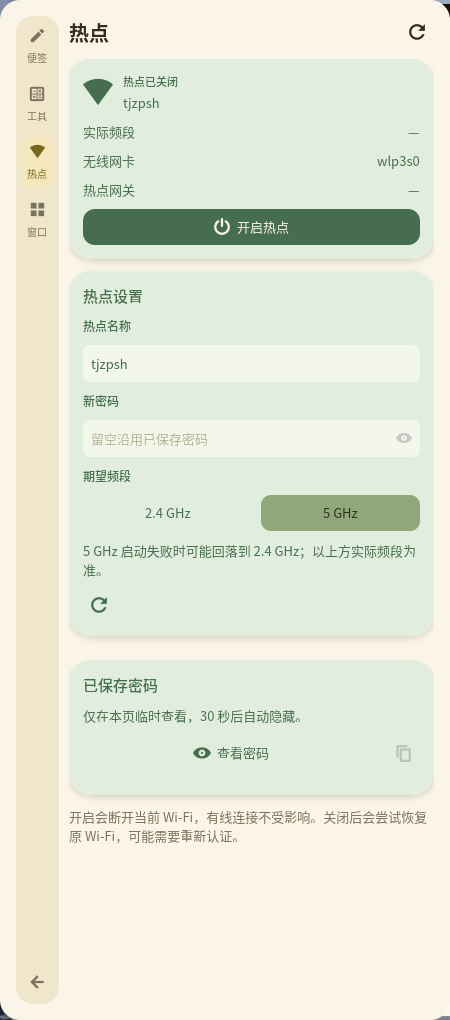
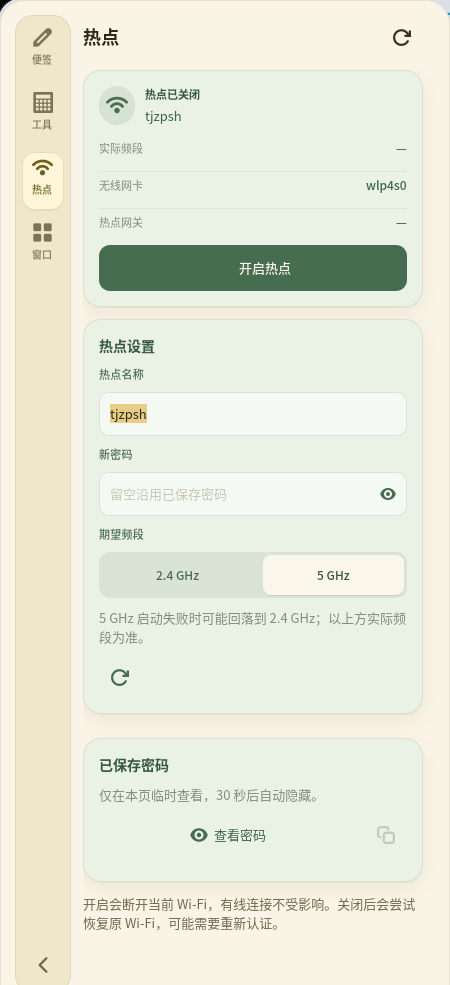
feat(tide-sidebar): 2.3.0 收尾批次——省内存/冷启动、可达性与文档收口
内存与启动（实测见 docs/performance-observation.json）：
- 页面按需构建：冷启探针 395→382 ms（5 次中位数），只开便签时省掉另外三页控件树；
  四页都访问后 RSS 108–114 MiB，只开便签约 98 MiB。
- 图标主题在本进程固定 Adwaita：所有图标本来就是 *-symbolic，Papirus 缓存不再加载；
  同状态（按需构建 + 便签页）117.7→100.9 MiB，−16.4 MiB。
- 闲置退出补组合场景：reload 待重拉时不算闲置、hide→show 重置倒计时、时钟跳变仍退出、
  0 表示常驻；service 层用假 runStream 覆盖配置传递、重拉与失败通知去重。
- 前端启动失败改为去重桌面通知（面板起不来时面板内 toast 看不到）。

视觉与可达性：
- 便签弹层两个空态改为图标+文案；热点初始加载显示“正在读取热点状态…”；
- 编辑器加 :focus-within 细描边焦点环；muted #8B8168→#71674F
  （纸面 4.81:1、便签纸 4.95:1，11px 正文达到 WCAG AA）；
- toast 对比度实测 13.2 / 7.5 / 5.3:1（默认/错误/成功）；
- 键盘实测 Ctrl+1–4 切页、Esc 收起（layer 消失）；1.25 缩放实拍无溢出，已恢复 1.0。

文档与发布：
- 版本 2.3.0；previews 六张与 design/reference-flat-proof.png 全部换成当前实机图，
  旧静态 SVG 样张退役（files.tsv 414 行，schema 锁同步）；
- README / reference-redesign / project-review / sdk-notes 更新版本、内存与闲置退出口径。

安装器：
- 删除 07 两条不可达的软链分支：an_resolve_target 已用 realpath 解析到真实文件，
  链接保留、写入落在目标（DETAILS.md 的既有约定），备份 helper 一并删除；
- test-07 软链段改为直接验证解析语义（写穿不替换链接、白名单外拒绝），
  test-manifest-schema 行数锁 415→414。

门禁：插件 run_all.py 0 errors/0 warnings；tools/selfcheck.sh 全过；
tests/run-all.sh ALL TESTS PASSED。

diff --git a/payload/home/noctalia-plugins/tide-sidebar/native/main.js b/payload/home/noctalia-plugins/tide-sidebar/native/main.js
@@ -37,6 +37,8 @@ let state = {
 let sequence = 0, visible = false, currentPage = 'notes', lastControl = -1;
 let window, rootRevealer, stack, toastRevealer, toastLabel, toastTimer = 0;
 let views = {}, navigation = {}, fileMonitor = null, pendingRead = 0, closeSource = 0, heartbeat = 0;
+let viewFactory = null;
+let ensureView = () => null;
 let shellBox = null, appliedWidth = 0;
 let exiting = false, startupFailed = false;
 const dirtyFiles = new Set();
@@ -117,13 +119,15 @@ function applyConfig() {
 function normalizePage(page) { return pageNames.includes(page) ? page : (pageAliases[page] || 'notes'); }
 function updatePage(force = false, changed = []) {
     const needed = {notes: ['notes'], tools: ['timer', 'calc', 'stopwatch'], hotspot: ['system'], windows: ['system']};
-    if (visible && (force || changed.some(name => needed[currentPage].includes(name)))) views[currentPage].update(state);
+    const view = views[currentPage];
+    if (visible && view && (force || changed.some(name => needed[currentPage].includes(name)))) view.update(state);
 }
 function selectPage(name, save = true) {
     name = normalizePage(name);
     if (name === currentPage && stack?.get_visible_child_name() === name) { updatePage(true); return; }
     if (visible) views[currentPage]?.onHide?.();
     currentPage = name;
+    ensureView(name);
     stack.set_visible_child_name(name);
     for (const [page, button] of Object.entries(navigation)) {
         if (page === name) button.add_css_class('selected'); else button.remove_css_class('selected');
@@ -256,6 +260,10 @@ app.connect('startup', () => {
     provider.load_from_path(GLib.build_filenamev([pluginDir, 'style.css']));
     if (cssErrors.length) throw new Error('Invalid sidebar stylesheet: ' + cssErrors.join('; '));
     Gtk.StyleContext.add_provider_for_display(Gdk.Display.get_default(), provider, Gtk.STYLE_PROVIDER_PRIORITY_USER + 1);
+    // All icons in this panel are *-symbolic and resolve from GTK's built-in
+    // Adwaita theme anyway; naming it explicitly keeps the session's Papirus
+    // icon caches (2 x ~3 MiB) out of this process. No visual change.
+    Gtk.Settings.get_default().set_property('gtk-icon-theme-name', 'Adwaita');
     app.hold();
     window = new Gtk.ApplicationWindow({application: app, title: '侧边栏', decorated: false, default_width: 450});
     window.add_css_class('tide-window');
@@ -274,7 +282,18 @@ app.connect('startup', () => {
     Layer.set_exclusive_zone(window, 0);
     window.connect('close-request', () => { setVisible(false); return true; });
     const ctx = {ui: UI, send, toast, copy, runHelper, writePrivateRequest, close: () => setVisible(false), getState: () => state, isVisible: () => visible, config: () => state.config};
-    views = {notes: createNotes(ctx), tools: createTools(ctx), hotspot: createHotspot(ctx), windows: createWindows(ctx)};
+    // Pages are built on first use: the common notes-only open skips the other
+    // three widget trees (about 20 ms of construction on this machine).
+    viewFactory = {notes: () => createNotes(ctx), tools: () => createTools(ctx), hotspot: () => createHotspot(ctx), windows: () => createWindows(ctx)};
+    views = {};
+    ensureView = name => {
+        if (views[name]) return views[name];
+        const view = viewFactory[name]();
+        views[name] = view;
+        stack.add_named(view.widget, name);
+        view.update(state);
+        return view;
+    };
     const shell = UI.box(Gtk.Orientation.HORIZONTAL, 12, ['sidebar-shell']);
     shellBox = shell;
     shell.set_size_request(450, -1);
@@ -295,7 +314,6 @@ app.connect('startup', () => {
     const right = UI.box(Gtk.Orientation.VERTICAL, 6, ['content-column']);
     right.set_hexpand(true); right.set_vexpand(true);
     stack = new Gtk.Stack({hexpand: true, vexpand: true, transition_type: Gtk.StackTransitionType.SLIDE_LEFT_RIGHT, transition_duration: 220});
-    for (const name of pageNames) stack.add_named(views[name].widget, name);
     right.append(stack);
     toastRevealer = new Gtk.Revealer({transition_type: Gtk.RevealerTransitionType.SLIDE_UP, transition_duration: 180});
     toastRevealer.add_css_class('toast');
@@ -318,7 +336,7 @@ app.connect('startup', () => {
     window.add_controller(keyboard);
     selectPage('notes', false);
     if (checkOnly) {
-        for (const name of pageNames) views[name].update(state);
+        for (const name of pageNames) { ensureView(name); views[name].update(state); }
         print('native-check: GTK widgets and CSS constructed successfully');
         GLib.idle_add(GLib.PRIORITY_DEFAULT_IDLE, () => { app.quit(); return GLib.SOURCE_REMOVE; });
     } else {

diff --git a/payload/home/noctalia-plugins/tide-sidebar/native/style.css b/payload/home/noctalia-plugins/tide-sidebar/native/style.css
@@ -2,7 +2,7 @@
  * One palette, one rhythm: paper shell, olive accent, mint for system pages.
  * Depth comes from 1px warm borders + two-layer soft shadows; no gloss, no gradients.
  * Tokens (kept literal because GTK CSS has no custom properties):
- *   ink #2F2918 · ink-soft #4C432C · muted #8B8168 · faint #A79C82
+ *   ink #2F2918 · ink-soft #4C432C · muted #71674F · faint #A79C82
  *   paper #FAF4E6 · rail #F0E6C9 · border rgba(96,80,32,.11)
  *   note #FFEDB8 · calc #FFE9A8 · olive #6D5E1B · mint #E9F2E4 · mint-ink #3F654A
  *   radius: shell 24 · card 18 · control 10-12 · pill 999
@@ -55,16 +55,16 @@
   box-shadow: 0 1px 2px rgba(74, 62, 28, 0.08);
 }
 .tide-window .nav-label { font-size: 10px; font-weight: 500; }
-.tide-window .motion-button, .tide-window .close-button { color: #8B8168; margin-top: 2px; }
+.tide-window .motion-button, .tide-window .close-button { color: #71674F; margin-top: 2px; }
 .tide-window .close-button:hover { background-color: rgba(120, 103, 28, 0.08); color: #4C432C; }
 
 /* ---------- type scale ---------- */
 .tide-window .title,
 .tide-window .page-title { font-size: 18px; font-weight: 600; color: #2F2918; letter-spacing: 0.01em; }
 .tide-window .section-title { font-size: 14px; font-weight: 600; color: #2F2918; }
-.tide-window .subtitle { color: #8B8168; }
-.tide-window .muted, .tide-window .field-muted { color: #8B8168; }
-.tide-window .caption, .tide-window .status-label, .tide-window .status { font-size: 11px; color: #8B8168; }
+.tide-window .subtitle { color: #71674F; }
+.tide-window .muted, .tide-window .field-muted { color: #71674F; }
+.tide-window .caption, .tide-window .status-label, .tide-window .status { font-size: 11px; color: #71674F; }
 .tide-window .field-label { font-size: 11px; font-weight: 500; color: #7A6E4E; letter-spacing: 0.02em; }
 .tide-window .warning, .tide-window .status-error, .tide-window .error { color: #9A4A33; }
 .tide-window .status-success { color: #476D50; }
@@ -278,7 +278,7 @@
 }
 .tide-window .equals-button:hover { background-color: #5B4F15; }
 .tide-window .tools-history { padding: 2px 14px 12px; }
-.tide-window .history-row { font-size: 11px; color: #8B8168; padding: 2px 0; }
+.tide-window .history-row { font-size: 11px; color: #71674F; padding: 2px 0; }
 .tide-window .tools-history .section-title { font-size: 12px; color: #6F6244; }
 
 /* ---------- tools: countdown ---------- */
@@ -397,6 +397,9 @@
 .tide-window .window-row .muted { font-size: 11px; color: #7C8F7A; }
 .tide-window .window-row image { color: #476D50; }
 .tide-window .window-card .muted { color: #7C8F7A; }
+.tide-window .list-empty { padding: 10px 6px; }
+.tide-window .list-empty image { color: #A79C82; }
+.tide-window .editor-scroll:focus-within { box-shadow: inset 0 0 0 1px rgba(109, 94, 27, 0.20); }
 .tide-window .empty-state { padding: 20px 12px; }
 .tide-window .empty-state image { color: #9CB29A; }
 .tide-window .empty-title { font-size: 13px; font-weight: 600; color: #4C6B52; }

diff --git a/payload/home/noctalia-plugins/tide-sidebar/native/views/notes.js b/payload/home/noctalia-plugins/tide-sidebar/native/views/notes.js
@@ -188,7 +188,13 @@ export function createNotes(ctx) {
     listTabs.append(normalTab); listTabs.append(trashTab); listTabs.append(listCount); listShell.append(listTabs);
     const listStack = new Gtk.Stack({transition_type: Gtk.StackTransitionType.CROSSFADE, transition_duration: 120});
     const normalList = U.box(Gtk.Orientation.VERTICAL, 3), recycleList = U.box(Gtk.Orientation.VERTICAL, 3);
-    const emptyList = U.label('还没有便签', ['caption']), emptyTrash = U.label('回收站是空的', ['caption']);
+    function listEmpty(text) {
+        const box = U.box(Gtk.Orientation.VERTICAL, 4, ['list-empty']);
+        box.append(U.icon('note', 18));
+        const caption = U.label(text, ['caption']); caption.set_xalign(0.5); box.append(caption);
+        return box;
+    }
+    const emptyList = listEmpty('还没有便签'), emptyTrash = listEmpty('回收站是空的');
     normalList.append(emptyList); recycleList.append(emptyTrash);
     function listScroller(child) {
         const scroller = new Gtk.ScrolledWindow({hexpand: true, propagate_natural_height: true, max_content_height: 174});

diff --git a/payload/home/noctalia-plugins/tide-sidebar/native/views/system.js b/payload/home/noctalia-plugins/tide-sidebar/native/views/system.js
@@ -367,7 +367,7 @@ export function createHotspot(ctx) {
         }
         if ((!initialized || !editing) && !busy() && !intent && typeof h.ssid === 'string' && h.ssid) resetFields();
         if (initialized && !hasChanges()) editing = false;
-        ui.setLabel(status, busy() ? '正在处理热点操作' : h.on === true ? '热点已开启' : h.on === false ? '热点已关闭' : '暂时无法确认状态');
+        ui.setLabel(status, busy() ? '正在处理热点操作' : h.on === true ? '热点已开启' : h.on === false ? '热点已关闭' : current.loading ? '正在读取热点状态…' : '暂时无法确认状态');
         ui.setLabel(networkName, clean(h.ssid) || (current.loading ? '正在获取网络信息…' : '尚未设置热点名称'));
         ui.setLabel(actualBand.value, h.on === true ? (h.band === 'a' ? '5 GHz' : h.band === 'bg' ? '2.4 GHz' : '未知') : '—');
         ui.setLabel(iface.value, clean(h.iface) || '—');

diff --git a/payload/home/noctalia-plugins/tide-sidebar/README.md b/payload/home/noctalia-plugins/tide-sidebar/README.md
@@ -1,6 +1,6 @@
 # 侧边栏工作台
 
-适配本机 Noctalia 5.2.1 + niri。界面按用户确认的[参考式样张](<design/reference-flat-proof.png>)制作：米白底、奶黄色块、橄榄拼接、自然波浪分色与轻投影；不再使用品牌口号、反光渐变和一格格描边按键。
+适配本机 Noctalia 5.4.0 + niri 26.04。界面按[实机视觉基准](<design/reference-flat-proof.png>)制作：米白底、奶黄色块、橄榄拼接、自然波浪分色与轻投影；不再使用品牌口号、反光渐变和一格格描边按键。
 
 ## 打开与关闭
 
@@ -76,7 +76,7 @@ noctalia msg plugin pang/tide-sidebar:backend all motion on
 noctalia msg plugin pang/tide-sidebar:backend all motion off
 ~~~
 
-收起满 15 分钟（可在插件设置里改成 0–120，0 为常驻）后前端退出，隐藏期间内存归零；后台服务继续跑便签、倒计时和通知，再打开约 0.4 秒冷启。前端用 GTK 自带的软件光栅（cairo）而不是 GL：调色板、圆角与投影照旧，但本进程不再加载 GL 驱动栈（libLLVM / NVIDIA gallium），常驻内存大幅下降。本机一次预热后的 6 秒观察：Noctalia 约 0.83%＋前端 0.17%，合计约单核 1.00%；收起后 0.83%＋0.00%，合计约 0.83%。原生前端 RSS 约 126 MiB（GL 路径曾约 217 MiB），仍是额外常驻界面的内存代价。它不是零开销，也不把 CPU 采样冒充 FPS 或输入延迟。
+收起满 15 分钟（可在插件设置里改成 0–120，0 为常驻）后前端退出，隐藏期间内存归零；后台服务继续跑便签、倒计时和通知，再打开约 0.4 秒冷启。前端用 GTK 自带的软件光栅（cairo）而不是 GL：调色板、圆角与投影照旧，但本进程不再加载 GL 驱动栈（libLLVM / NVIDIA gallium），常驻内存大幅下降。本机一次预热后的 6 秒观察：Noctalia 约 0.83%＋前端 0.17%，合计约单核 1.00%；收起后 0.83%＋0.00%，合计约 0.83%。打开后前端 RSS 约 98–115 MiB（只开便签约 98，四页都访问过约 109–114；GL 路径曾约 217 MiB），仍是额外常驻界面的内存代价。它不是零开销，也不把 CPU 采样冒充 FPS 或输入延迟。
 
 详见[性能记录及条件](<docs/performance-observation.json>)和[改版验收说明](<docs/reference-redesign.md>)。旧版样本包含开场动画、新版样本预热后才开始，不能据此声称严格减少了50%。
 

diff --git a/payload/home/noctalia-plugins/tide-sidebar/docs/reference-redesign.md b/payload/home/noctalia-plugins/tide-sidebar/docs/reference-redesign.md
@@ -2,7 +2,7 @@
 
 ## 视觉基准
 
-用户确认的[静态样张](<../design/reference-flat-proof.png>)为唯一视觉基准：[可编辑 SVG](<../design/reference-flat-proof.svg>)。
+当前视觉基准是 2026-10-31 的[实机合成图](<../design/reference-flat-proof.png>)（便签页 + 工具页，450×985 逐像素截图）。此前的静态样张与 SVG 已随视觉重做退役。
 
 - 平整奶黄、米白、橄榄、绿色；不使用明显反光渐变或白色亮边。
 - 波浪是色块边界，不是贴在卡片上的图表装饰线。
@@ -27,7 +27,7 @@
 
 收起满 15 分钟（`idle_exit_minutes`，0 为常驻）后前端进程退出，隐藏期间 RSS 归零；后台服务保留数据与通知，下一次打开重新拉起前端（cairo 冷启约 0.4 秒）。
 
-切换后预热 6 秒观测：Noctalia 0.83% + 原生前端 0.17%，合计约单核 1.00%；收起 0.83% + 0.00%，合计约 0.83%。前端 RSS 约 126 MiB（GL 路径约 217 MiB）。四页截图逐像素比对：面板主体 0.000% 差异（文字抗锯齿与光标/正文变化不计），观感一致。见[观测记录](<performance-observation.json>)。旧采样包含开场动画，新采样在 1.1 秒预热后开始，不能据此宣称严格降低了 50% 或给出 FPS；离屏构造测试也不替代真实流畅度验收。
+切换后预热 6 秒观测：Noctalia 0.83% + 原生前端 0.17%，合计约单核 1.00%；收起 0.83% + 0.00%，合计约 0.83%。前端 RSS 约 98–115 MiB（只开便签约 98，四页访问过约 109–114；图标固定 Adwaita、页面按需构建；GL 路径约 217 MiB）。四页截图逐像素比对：面板主体 0.000% 差异（文字抗锯齿与光标/正文变化不计），观感一致。见[观测记录](<performance-observation.json>)。旧采样包含开场动画，新采样在 1.1 秒预热后开始，不能据此宣称严格降低了 50% 或给出 FPS；离屏构造测试也不替代真实流畅度验收。
 
 ## 最终本机检查
 

diff --git a/payload/home/noctalia-plugins/tide-sidebar/docs/project-review.md b/payload/home/noctalia-plugins/tide-sidebar/docs/project-review.md
@@ -1,3 +1,9 @@
+> **历史快照**：以下正文记录 2026-10-15 的 2.1.0 复查。最新数据见
+> [性能观察](<performance-observation.json>) 与本次复审（2026-10-31，2.3.0）：
+> 前端改为 cairo 软件光栅（RSS 219→约 98–115 MiB）、按需构建页面（首开省约 13 ms）、
+> 图标主题固定 Adwaita（少加载图标缓存，约省 16 MiB）、闲置 15 分钟退出前端
+> （隐藏期 0 MiB，重开约 0.43 s）；视觉已按新令牌重做，截图见 `previews/`。
+
 # 项目复查（2026-10-15）
 
 复查范围：`tide-sidebar/` 全部源码与文档，以及它在本机的实际运行状态。方法：逐文件通读代码、比对文档与实现、核对宿主 API 证据（GIR / 运行日志 / 实际进程与文件权限）、重跑统一回归入口；另有两路独立只读审查（数据/服务层、原生界面层）在并行进行，结论会在收到后追加到本文件。

diff --git a/payload/home/noctalia-plugins/tide-sidebar/docs/sdk-notes.md b/payload/home/noctalia-plugins/tide-sidebar/docs/sdk-notes.md
@@ -1,4 +1,8 @@
-# Noctalia 5.2.1 / plugin_api 32 SDK 核实笔记
+# Noctalia SDK 核实笔记（5.2.1 实测，宿主已升级 5.4.0）
+
+> 本笔记的逐项验证是在 noctalia 5.2.1 / plugin_api 32 上完成的。宿主现已为
+> 5.4.0（API 42），插件的 `plugin_api = 32` 仍按兼容层加载并跑通全部测试；
+> 新增 API 未使用，未逐项重测。
 
 结论：可以用原生 Luau 插件做侧栏、编辑、拖放、后台服务和轻量动画；没有 QML 服务对象、通用 canvas/shapes 或可自定义的 CSS 动画。以下按 v5.2.1 实际导出/属性白名单记录，避免套用旧版 Noctalia 或浏览器 API。
 
